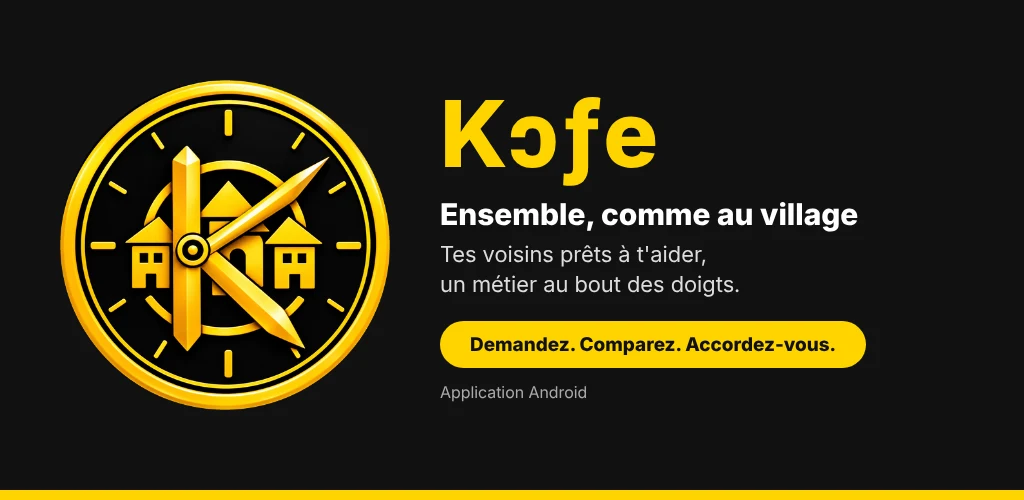
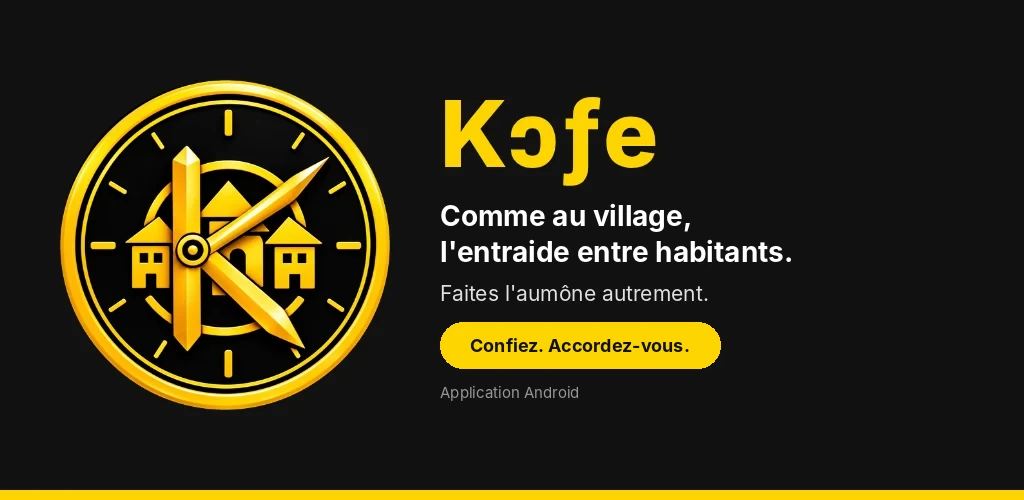
Site : images et phrases « Comme au village, l'entraide entre habitants » (brouillon)
Claude-Session: https://claude.ai/code/session_018bK9aPASqPsDW8TBt2oTtu

diff --git a/index.html b/index.html
@@ -3,10 +3,10 @@
 <head>
 <meta charset="utf-8">
 <meta name="viewport" content="width=device-width,initial-scale=1">
-<title>Kɔƒe — Tes voisins prêts à t'aider</title>
+<title>Kɔƒe — Comme au village, l'entraide entre habitants</title>
 <meta name="description" content="Kɔƒe, l'appli qu'on ouvre pour faire le bien autour de soi. Confiez une tâche à un voisin dans la peine, ou apportez votre aide contre un geste. En ville (Kɔme) comme au village (Kɔƒe), partout au Togo.">
 <meta name="theme-color" content="#0E0E0E">
-<meta property="og:title" content="Kɔƒe — Tes voisins prêts à t'aider">
+<meta property="og:title" content="Kɔƒe — Comme au village, l'entraide entre habitants">
 <meta property="og:description" content="Kɔƒe, l&#x27;appli qu&#x27;on ouvre pour faire le bien autour de soi.">
 <meta property="og:image" content="https://kopetogo.com/assets/img/banniere-kope.webp">
 <meta property="og:url" content="https://kopetogo.com/">
@@ -15,7 +15,7 @@
 <link rel="preconnect" href="https://fonts.googleapis.com">
 <link rel="preconnect" href="https://fonts.gstatic.com" crossorigin>
 <link rel="stylesheet" href="https://fonts.googleapis.com/css2?family=Inter:wght@400;500;600;700&family=Manrope:wght@600;700;800&display=swap">
-<link rel="stylesheet" href="assets/site.css?v=20261117">
+<link rel="stylesheet" href="assets/site.css?v=20261117b">
 <link rel="preload" as="image" href="assets/img/client-demande.webp">
 </head>
 <body id="top">
@@ -116,7 +116,7 @@
     <span class="eyebrow rv">Pourquoi Kɔƒe</span>
     <h2 class="title rv">Au Togo, personne ne doit rester <span class="mark">seul dans la difficulté.</span></h2>
     <div class="manif-txt rv">
-      <p>Près de chez vous, il y a un jeune qui n&#x27;a rien mangé aujourd&#x27;hui. Il veut étudier, préparer son avenir, mais il n&#x27;a même pas de quoi acheter ses livres.</p>
+      <p>À deux pas de vous, il y a un jeune qui n&#x27;a rien mangé aujourd&#x27;hui. Il veut étudier, préparer son avenir, mais il n&#x27;a même pas de quoi acheter ses livres.</p>
       <p>Il y a une jeune fille dans la même peine. Il y a une maman, une veuve, seule avec ses enfants, sans rien pour les nourrir.</p>
       <p>Si vous avez un peu de moyens, vous pouvez les aider. Confiez-leur le balayage de votre devanture, une course, un linge à laver. C&#x27;est peu pour vous, mais pour eux, c&#x27;est déjà beaucoup.</p>
       <p>C&#x27;est votre façon d&#x27;aimer votre prochain. Car nous méritons tous de nous sentir entourés par des gens qui pensent à nous.</p>
@@ -387,7 +387,7 @@
       <div>
         <div class="cta-brand"><img src="assets/img/logo-kope-hd.png" alt="" width="76" height="76"><img class="word" src="assets/img/kope-mot.png" alt="Kɔƒe" width="102" height="42"></div>
         <span class="eyebrow">Rejoindre Kɔƒe</span>
-        <h2>Ensemble, comme au village.</h2>
+        <h2>Comme au village, l'entraide entre habitants.</h2>
         <p>L'inscription se fait dans l'application Android, une seule fois, pour demander et pour aider.</p>
         <div class="row">
           <a class="btn btn-y" href="https://wa.me/212636371063?text=Bonjour%20Kop%C3%A9%2C%20" target="_blank" rel="noopener" data-form="launch"><svg><use href="#i-phone"/></svg>Être prévenu du lancement</a>
@@ -398,7 +398,7 @@
         </div>
         <span class="soon">Bientôt sur Google Play</span>
       </div>
-      <div class="cta-img"><img src="assets/img/banniere-kope.webp" alt="Kɔƒe : ensemble, comme au village. Demandez, comparez, accordez-vous." width="1024" height="500" loading="lazy"></div>
+      <div class="cta-img"><img src="assets/img/banniere-kope.webp" alt="Kɔƒe : comme au village, l'entraide entre habitants. Faites l'aumône autrement. Confiez. Accordez-vous." width="1024" height="500" loading="lazy"></div>
     </div>
   </div>
 </section>
@@ -411,7 +411,7 @@
     <div class="foot-grid">
       <div>
         <a class="logo" href="#top"><img src="assets/img/logo-kope-hd.png" alt="" width="72" height="72">Kɔƒe</a>
-        <p>Tes voisins prêts à t'aider, un savoir-faire au bout des doigts. Lancement au Togo.</p>
+        <p>Comme au village, l'entraide entre habitants. Lancement au Togo.</p>
       </div>
       <div>
         <h4>Demander</h4>
@@ -448,7 +448,7 @@
   </form>
 </dialog>
 
-<script src="assets/site.js?v=20261117" defer></script>
+<script src="assets/site.js?v=20261117b" defer></script>
 <!-- Cloudflare Web Analytics --><script type='module' src='https://static.cloudflareinsights.com/beacon.min.js' data-cf-beacon='{"token": "86370a80b3de4fbbbb4326fadc4ddd93"}'></script><!-- End Cloudflare Web Analytics -->
 </body>
 </html>

diff --git a/guide.html b/guide.html
@@ -10,7 +10,7 @@
 <link rel="preconnect" href="https://fonts.googleapis.com">
 <link rel="preconnect" href="https://fonts.gstatic.com" crossorigin>
 <link rel="stylesheet" href="https://fonts.googleapis.com/css2?family=Inter:wght@400;500;600;700&family=Manrope:wght@600;700;800&display=swap">
-<link rel="stylesheet" href="assets/site.css?v=20261117">
+<link rel="stylesheet" href="assets/site.css?v=20261117b">
 <style>
 .g-nav{display:flex;flex-wrap:wrap;gap:8px;margin-top:26px}.g-nav a{background:var(--y);color:#111;font-weight:700;padding:9px 14px;border-radius:999px;text-decoration:none;font-size:15px}
 .g-sec{padding:44px 0 8px}.g-sec h2{font-size:clamp(24px,3vw,34px);font-weight:800;margin-bottom:22px}
@@ -45,7 +45,7 @@
   </div>
 </header>
 <main>
-<section class="doc-hero"><div class="wrap"><span class="eyebrow">Mode d'emploi</span><h1>Kɔƒe en quelques gestes</h1><p>Tes voisins prêts à t'aider, un savoir-faire au bout des doigts. Voici comment ça se passe.</p><div class="g-nav"><a href="#aide">Demander un coup de main</a><a href="#donner">Donner un coup de main</a><a href="#autres">Séjours, logements, courses, boutiques</a></div></div></section>
+<section class="doc-hero"><div class="wrap"><span class="eyebrow">Mode d'emploi</span><h1>Kɔƒe en quelques gestes</h1><p>Comme au village, l'entraide entre habitants. Voici comment ça se passe.</p><div class="g-nav"><a href="#aide">Demander un coup de main</a><a href="#donner">Donner un coup de main</a><a href="#autres">Séjours, logements, courses, boutiques</a></div></div></section>
 <div class="wrap">
 <section class="g-sec" id="aide"><div class="g-two">
 <figure class="g-shot"><img src="assets/img/guide/05_nouvelle_demande.jpg" alt="L'écran Wò didiwo de l'appli Kɔƒe" width="540" height="1168" loading="lazy"></figure>
@@ -77,7 +77,7 @@
     <div class="foot-grid">
       <div>
         <a class="logo" href="index.html"><img src="assets/img/logo-kope-hd.png" alt="" width="72" height="72">Kɔƒe</a>
-        <p>Tes voisins prêts à t'aider, un savoir-faire au bout des doigts. Lancement au Togo.</p>
+        <p>Comme au village, l'entraide entre habitants. Lancement au Togo.</p>
       </div>
       <div>
         <h4>Demander</h4>
@@ -96,7 +96,7 @@
   </div>
 </footer>
 
-<script src="assets/site.js?v=20261117" defer></script>
+<script src="assets/site.js?v=20261117b" defer></script>
 <!-- Cloudflare Web Analytics --><script type='module' src='https://static.cloudflareinsights.com/beacon.min.js' data-cf-beacon='{"token": "86370a80b3de4fbbbb4326fadc4ddd93"}'></script><!-- End Cloudflare Web Analytics -->
 </body>
 </html>

diff --git a/conditions.html b/conditions.html
@@ -9,7 +9,7 @@
 <link rel="preconnect" href="https://fonts.googleapis.com">
 <link rel="preconnect" href="https://fonts.gstatic.com" crossorigin>
 <link rel="stylesheet" href="https://fonts.googleapis.com/css2?family=Inter:wght@400;500;600;700&family=Manrope:wght@600;700;800&display=swap">
-<link rel="stylesheet" href="assets/site.css?v=20261117">
+<link rel="stylesheet" href="assets/site.css?v=20261117b">
 </head>
 <body>
 <header class="nav">
@@ -72,7 +72,7 @@
     <div class="foot-grid">
       <div>
         <a class="logo" href="index.html"><img src="assets/img/logo-kope-hd.png" alt="" width="72" height="72">Kɔƒe</a>
-        <p>Tes voisins prêts à t'aider, un savoir-faire au bout des doigts. Lancement au Togo.</p>
+        <p>Comme au village, l'entraide entre habitants. Lancement au Togo.</p>
       </div>
       <div>
         <h4>Demander</h4>
@@ -91,7 +91,7 @@
   </div>
 </footer>
 
-<script src="assets/site.js?v=20261117" defer></script>
+<script src="assets/site.js?v=20261117b" defer></script>
 <!-- Cloudflare Web Analytics --><script type='module' src='https://static.cloudflareinsights.com/beacon.min.js' data-cf-beacon='{"token": "86370a80b3de4fbbbb4326fadc4ddd93"}'></script><!-- End Cloudflare Web Analytics -->
 </body>
 </html>

diff --git a/confidentialite.html b/confidentialite.html
@@ -9,7 +9,7 @@
 <link rel="preconnect" href="https://fonts.googleapis.com">
 <link rel="preconnect" href="https://fonts.gstatic.com" crossorigin>
 <link rel="stylesheet" href="https://fonts.googleapis.com/css2?family=Inter:wght@400;500;600;700&family=Manrope:wght@600;700;800&display=swap">
-<link rel="stylesheet" href="assets/site.css?v=20261117">
+<link rel="stylesheet" href="assets/site.css?v=20261117b">
 </head>
 <body>
 <header class="nav">
@@ -64,7 +64,7 @@
     <div class="foot-grid">
       <div>
         <a class="logo" href="index.html"><img src="assets/img/logo-kope-hd.png" alt="" width="72" height="72">Kɔƒe</a>
-        <p>Tes voisins prêts à t'aider, un savoir-faire au bout des doigts. Lancement au Togo.</p>
+        <p>Comme au village, l'entraide entre habitants. Lancement au Togo.</p>
       </div>
       <div>
         <h4>Demander</h4>
@@ -83,7 +83,7 @@
   </div>
 </footer>
 
-<script src="assets/site.js?v=20261117" defer></script>
+<script src="assets/site.js?v=20261117b" defer></script>
 <!-- Cloudflare Web Analytics --><script type='module' src='https://static.cloudflareinsights.com/beacon.min.js' data-cf-beacon='{"token": "86370a80b3de4fbbbb4326fadc4ddd93"}'></script><!-- End Cloudflare Web Analytics -->
 </body>
 </html>

diff --git a/suppression-compte.html b/suppression-compte.html
@@ -9,7 +9,7 @@
 <link rel="preconnect" href="https://fonts.googleapis.com">
 <link rel="preconnect" href="https://fonts.gstatic.com" crossorigin>
 <link rel="stylesheet" href="https://fonts.googleapis.com/css2?family=Inter:wght@400;500;600;700&family=Manrope:wght@600;700;800&display=swap">
-<link rel="stylesheet" href="assets/site.css?v=20261117">
+<link rel="stylesheet" href="assets/site.css?v=20261117b">
 </head>
 <body>
 <header class="nav">
@@ -54,7 +54,7 @@
     <div class="foot-grid">
       <div>
         <a class="logo" href="index.html"><img src="assets/img/logo-kope-hd.png" alt="" width="72" height="72">Kɔƒe</a>
-        <p>Tes voisins prêts à t'aider, un savoir-faire au bout des doigts. Lancement au Togo.</p>
+        <p>Comme au village, l'entraide entre habitants. Lancement au Togo.</p>
       </div>
       <div>
         <h4>Demander</h4>
@@ -73,7 +73,7 @@
   </div>
 </footer>
 
-<script src="assets/site.js?v=20261117" defer></script>
+<script src="assets/site.js?v=20261117b" defer></script>
 <!-- Cloudflare Web Analytics --><script type='module' src='https://static.cloudflareinsights.com/beacon.min.js' data-cf-beacon='{"token": "86370a80b3de4fbbbb4326fadc4ddd93"}'></script><!-- End Cloudflare Web Analytics -->
 </body>
 </html>
